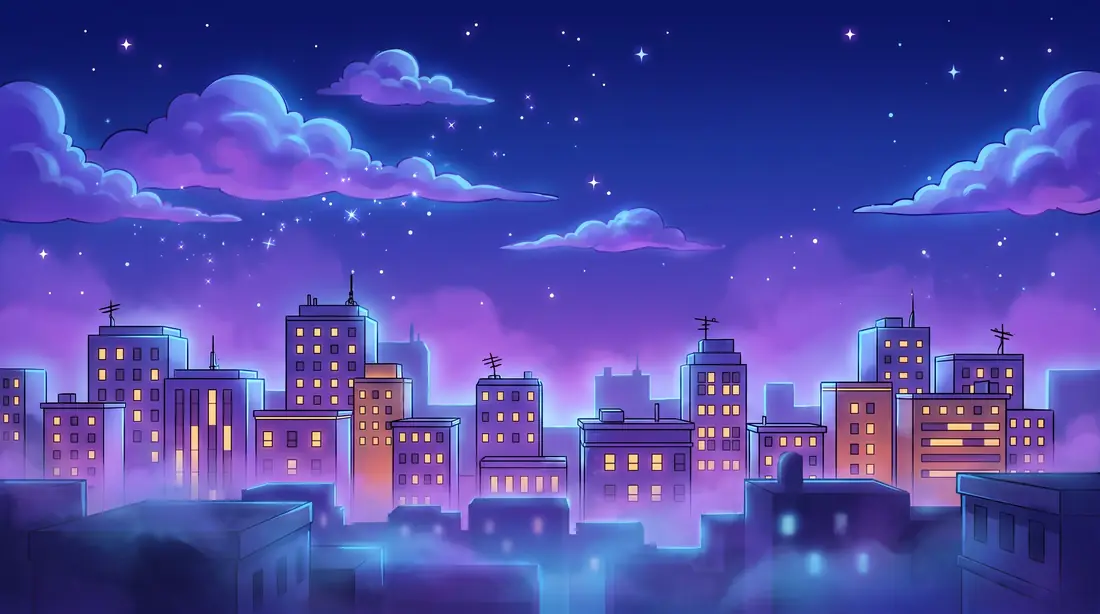
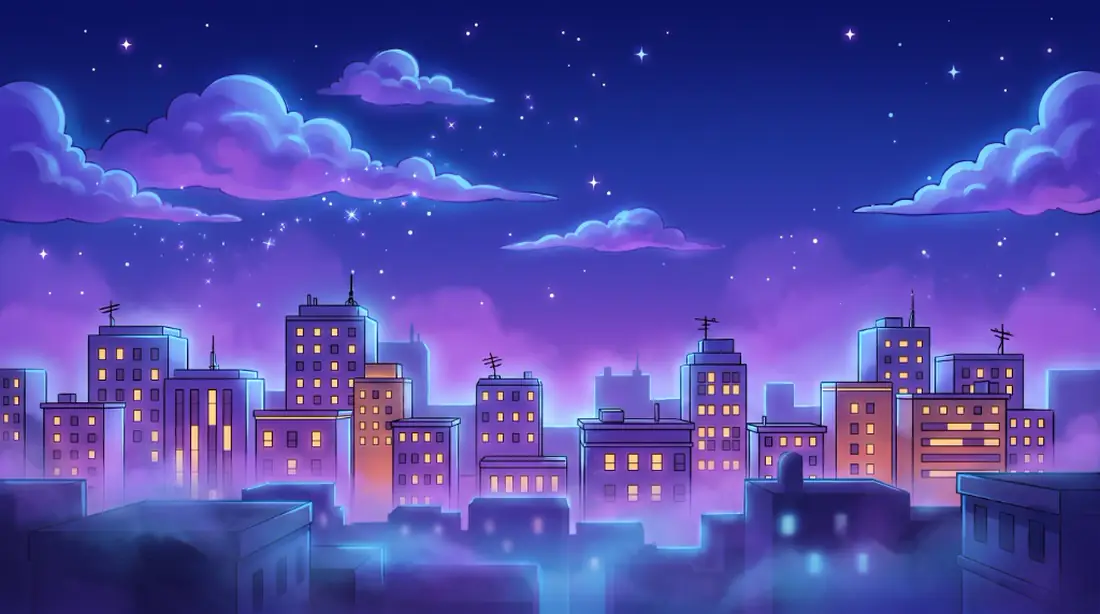
Fondos: ciudad según la hora (día, atardecer, noche) y escenario en partida
- FondoALV: ciudad que cambia sola con la hora local (cortes de México), luna y destellos de noche, sol de día.
- FondoEscenario: alberca (ALVerca), patio con fogata (FBI Fogata) y cancha (GPS Gran Parque Salvaje) en la partida, en la TV y en la sección Escenario del configurador; sin imagen, la ciudad.
- Imágenes nuevas en public/arte en dos tamaños; ?hora=HH para probar.

diff --git a/src/pantallas/alv.css b/src/pantallas/alv.css
@@ -655,3 +655,38 @@ button.a-logo:focus-visible { outline: 3px solid #ffd23f; outline-offset: 4px; b
 
 /* ---------- Lobby: posiciones del último juego en la TV ---------- */
 .D .a-tv-lobby > .pos { align-self: center; justify-self: center; align-content: center; width: min(60em, 100%); grid-template-columns: repeat(2, minmax(0, 1fr)); font-size: 1.1em; }
+
+/* ---------- Fondos pintados (2026-11-18): ciudad según la hora y escenario en partida (Fondos.tsx) ---------- */
+.D .a-fondo-alv { overflow: hidden; background: #241a6b; }
+.D .a-fondo-alv.m-dia { background: #8fd0f5; }
+.D .a-fondo-alv.m-atardecer { background: #6e4058; }
+.D .a-fa-capa { position: absolute; inset: 0; background: var(--arte-g) center bottom / cover no-repeat; }
+.D:not(.wide) .a-fondo-alv .a-fa-capa { background-image: var(--arte-c); background-position: 42% bottom; }
+.D .a-fa-capa.nueva { animation: aFaEntra 2.2s ease both; }
+@keyframes aFaEntra { from { opacity: 0; } }
+/* Velo para leer el texto encima (arriba y abajo más oscuro). */
+.D .a-fondo-alv::after { background-image: linear-gradient(180deg, rgba(20,14,70,.15), transparent 30%, transparent 62%, rgba(10,14,48,.55)); background-size: auto; }
+.D .a-fondo-alv.m-dia::after { background-image: linear-gradient(180deg, rgba(12,40,110,.32), rgba(12,40,110,.12) 40%, transparent 58%, rgba(12,22,64,.5)); }
+.D .a-fondo-alv.m-atardecer::after { background-image: linear-gradient(180deg, rgba(40,16,60,.3), rgba(40,16,60,.1) 40%, transparent 60%, rgba(30,12,40,.55)); }
+/* Con cielo claro, el texto que va directo sobre el fondo lleva sombra para leerse. */
+.D:has(> .a-fondo-alv.m-dia) .a-scroll, .D:has(> .a-fondo-alv.m-atardecer) .a-scroll, .D:has(> .a-fondo-esc) .a-scroll, .D.a-tv:has(> .a-fondo-esc) { text-shadow: 0 1px 2px rgba(10,16,50,.8), 0 0 10px rgba(10,16,50,.55); }
+.D .a-fondo-alv .a-fh-luna, .D .a-fondo-alv .a-fh-brillo { z-index: 1; }
+.D:not(.wide) .a-fondo-alv .a-fh-luna { right: 7%; top: 15%; width: 54px; }
+/* Día: sol suave arriba a la derecha con rayos que giran lento. */
+.D .a-fa-sol { position: absolute; z-index: 1; right: 8%; top: 5%; width: clamp(60px, 8vw, 140px); aspect-ratio: 1; border-radius: 50%;
+  background: radial-gradient(circle at 42% 40%, #fffef0, #fff3b0 55%, #ffd76a);
+  box-shadow: 0 0 30px 10px rgba(255,240,170,.6), 0 0 120px 50px rgba(255,236,170,.35); }
+.D .a-fa-sol::before { content: ""; position: absolute; inset: -110%; border-radius: 50%; pointer-events: none; opacity: .35;
+  background: repeating-conic-gradient(rgba(255,246,200,.9) 0 6deg, transparent 6deg 24deg);
+  -webkit-mask: radial-gradient(closest-side, #000 35%, transparent); mask: radial-gradient(closest-side, #000 35%, transparent); animation: aFaRayos 60s linear infinite; }
+.D:not(.wide) .a-fa-sol { top: 13%; right: 8%; width: 50px; }
+@keyframes aFaRayos { to { rotate: 360deg; } }
+/* Atardecer: el sol ya viene en la imagen; solo un resplandor cálido que respira sobre el horizonte. */
+.D .a-fa-calor { position: absolute; z-index: 1; left: 15%; right: 15%; top: 38%; height: 40%; pointer-events: none; border-radius: 50%;
+  background: radial-gradient(closest-side, rgba(255,190,100,.32), transparent); animation: aFaCalor 7s ease-in-out infinite alternate; }
+@keyframes aFaCalor { to { opacity: .55; scale: 1.08; } }
+/* Escenario en partida: la imagen centrada y un velo más fuerte para que se lean tarjetas y marcador. */
+.D .a-fondo-esc { background: #10183a; }
+.D .a-fondo-esc .a-fa-capa, .D:not(.wide) .a-fondo-esc .a-fa-capa { background-position: center 60%; }
+.D .a-fondo-esc::after { background-image: linear-gradient(180deg, rgba(8,10,40,.5), rgba(8,10,40,.18) 30%, rgba(8,10,40,.22) 65%, rgba(8,10,40,.65)); background-size: auto; }
+@media (prefers-reduced-motion: reduce) { .D .a-fa-sol::before, .D .a-fa-calor, .D .a-fa-capa.nueva { animation: none !important; } }

diff --git a/src/pantallas/ConfigurarPartida.tsx b/src/pantallas/ConfigurarPartida.tsx
@@ -23,6 +23,7 @@ import { useSala } from "../roles/sala";
 import { FILAS, NIVELES, Reglas, candado, colorDe, duracion, gente } from "./Catalogo";
 import { CartaEscenario, CartaJuego, CartaTipo, srcArte } from "./TarjetasConfig";
 import { Marco, NombreJugador, Retrato, Vacio, aviso, confirmar } from "./comun";
+import { FondoEscenario } from "./Fondos";
 import "./configurar.css";
 
 export interface MiembroConfig { id: string; nombre: string; figura?: FiguraV2 | null }
@@ -94,10 +95,12 @@ function ArteJuego({ id, className = "" }: { id: string; className?: string }) {
     : <span className={"cfg-sinarte " + className} style={{ "--tc": colorDe(id) } as CSSProperties}><span aria-hidden="true">{EMOJI_JUEGO[id] ?? "🎲"}</span></span>;
 }
 
-export function ConfigurarPartida({ miembros, alIniciar, alCancelar, iniciando, inicial, alEntregarCopas }: {
+export function ConfigurarPartida({ miembros, alIniciar, alCancelar, iniciando, inicial, alEntregarCopas, alFondo }: {
   miembros: MiembroConfig[];
   /** «Terminar la noche»: entrega las copas de todos los juegos jugados (solo el anfitrión). */
   alEntregarCopas?: () => void;
+  /** Fondo de la página: en la sección «Escenario» el del escenario elegido (null = Ciudad ALV); fuera de ella, undefined. */
+  alFondo?: (escenario: EscenarioId | null | undefined) => void;
   alIniciar: (c: PartidaConfigurada) => void;
   alCancelar?: () => void;
   iniciando?: boolean;
@@ -122,6 +125,8 @@ export function ConfigurarPartida({ miembros, alIniciar, alCancelar, iniciando, 
   const [tema, setTema] = useState<string | null>(inicial?.opciones.impostor?.tema ?? null);
   const [escenario, setEscenario] = useState<EscenarioId | undefined>(inicial?.opciones.escenario);
   const [filtro, setFiltro] = useState("todos");
+  // En la sección «Escenario» la página toma el fondo del escenario elegido.
+  useEffect(() => { alFondo?.(sec === "escenario" ? escenario ?? null : undefined); }, [sec, escenario, alFondo]);
   // Temporizador por turno (herramienta opcional, 6A.11 C6). null: sin tiempo.
   const [temporizador, setTemporizador] = useState<number | null>(inicial?.opciones.temporizador ?? null);
   const conTemporizador = JUEGOS_CON_TEMPORIZADOR.includes(juego);
@@ -401,6 +406,7 @@ export function PaginaConfigurar({ codigo }: { codigo: string }) {
   const ses = useSesion();
   const s = useSala(codigo, ses.uid);
   const [iniciando, setIniciando] = useState(false);
+  const [fondoEsc, setFondoEsc] = useState<EscenarioId | null | undefined>(undefined);
   const soyAnfitrion = !!s.sala && s.sala.anfitrionId === ses.uid;
   const enCurso = !!s.partida && !s.partida.terminada;
   useEffect(() => { if (enCurso && !iniciando) ir("sala", codigo); }, [enCurso, iniciando, codigo]);
@@ -426,9 +432,9 @@ export function PaginaConfigurar({ codigo }: { codigo: string }) {
     ir("sala", codigo);
   };
   return (
-    <Marco clase="cfg-pagina">
+    <Marco clase="cfg-pagina" fondo={fondoEsc !== undefined ? <FondoEscenario escenario={fondoEsc} /> : undefined}>
       {soyAnfitrion
-        ? <ConfigurarPartida miembros={s.miembros} iniciando={iniciando} alIniciar={c => void iniciar(c)} alCancelar={() => ir("sala", codigo)} alEntregarCopas={() => void copas()} />
+        ? <ConfigurarPartida miembros={s.miembros} iniciando={iniciando} alIniciar={c => void iniciar(c)} alCancelar={() => ir("sala", codigo)} alEntregarCopas={() => void copas()} alFondo={setFondoEsc} />
         : <Vacio titulo="El anfitrión está configurando" texto="En cuanto toque «Iniciar», empieza la partida."><Boton color="amarillo" texto="Volver a la sala" icono="back" onClick={() => ir("sala", codigo)} /></Vacio>}
     </Marco>
   );

diff --git a/src/app/horaDelDia.ts b/src/app/horaDelDia.ts
@@ -1,0 +1,60 @@
+// Momento del día para el fondo de ciudad (día, atardecer o noche), con la hora local del aparato.
+// Cortes con horas promedio de México (PROPUESTA, 18 nov): amanecer 6:00–7:00 usa la imagen del atardecer,
+// día 7:00–18:00, atardecer 18:00–19:30, noche 19:30–6:00.
+import { useEffect, useState } from "react";
+
+export type MomentoDia = "dia" | "atardecer" | "noche";
+
+/** Cortes en minutos desde la medianoche: [desde, momento]. Ordenados. */
+export const CORTES: readonly (readonly [number, MomentoDia])[] = [
+  [0, "noche"], [6 * 60, "atardecer"], [7 * 60, "dia"], [18 * 60, "atardecer"], [19 * 60 + 30, "noche"],
+];
+
+export function momentoDeMinutos(min: number): MomentoDia {
+  const m = ((Math.floor(min) % 1440) + 1440) % 1440;
+  let r: MomentoDia = "noche";
+  for (const [desde, cual] of CORTES) if (m >= desde) r = cual;
+  return r;
+}
+
+/** Minutos que faltan para el siguiente corte (siempre ≥ 1). */
+export function minutosAlSiguienteCorte(min: number): number {
+  const m = ((min % 1440) + 1440) % 1440;
+  const sig = CORTES.map(([d]) => d).find(d => d > m) ?? 1440;
+  return Math.max(1, sig - m);
+}
+
+/** Hora de prueba en la URL: `?hora=19`, `?hora=19.5` o `?hora=18:45`. Solo para revisar los fondos. */
+export function horaDePrueba(busqueda: string): number | null {
+  const h = new URLSearchParams(busqueda).get("hora");
+  if (!h) return null;
+  const m = /^(\d{1,2})(?::(\d{2})|\.(\d+))?$/.exec(h.trim());
+  if (!m) return null;
+  const horas = Number(m[1]), min = m[2] ? Number(m[2]) : m[3] ? Number("0." + m[3]) * 60 : 0;
+  if (horas > 23 || min > 59) return null;
+  return horas * 60 + min;
+}
+
+const ahoraMin = () => { const d = new Date(); return d.getHours() * 60 + d.getMinutes() + d.getSeconds() / 60; };
+
+/** Momento del día que cambia solo al pasar el corte, sin recargar. */
+export function useMomentoDia(): MomentoDia {
+  const prueba = typeof location !== "undefined" ? horaDePrueba(location.search) : null;
+  const [m, setM] = useState<MomentoDia>(() => momentoDeMinutos(prueba ?? ahoraMin()));
+  useEffect(() => {
+    if (prueba !== null) { setM(momentoDeMinutos(prueba)); return; }
+    let t = 0;
+    const revisar = () => {
+      clearTimeout(t);
+      const min = ahoraMin();
+      setM(momentoDeMinutos(min));
+      // Un segundo después del corte; los relojes de pestañas ocultas se atrasan, por eso también al volver a la pestaña.
+      t = window.setTimeout(revisar, minutosAlSiguienteCorte(min) * 60_000 + 1000);
+    };
+    revisar();
+    const alVolver = () => { if (document.visibilityState === "visible") revisar(); };
+    document.addEventListener("visibilitychange", alVolver);
+    return () => { clearTimeout(t); document.removeEventListener("visibilitychange", alVolver); };
+  }, [prueba]);
+  return m;
+}

diff --git a/src/roles/pantalla/Pantalla.tsx b/src/roles/pantalla/Pantalla.tsx
@@ -1,7 +1,8 @@
 // La Pantalla (#/tv/código): la laptop o TV que todos ven. No juega: corre el motor y dibuja lo público.
 // Sin QR (Elías, 18 nov): quien abre ALV entra al lobby único con «¡Jugar!». Tiene controles de respaldo para quien tiene el control.
 import { useEffect, useState } from "react";
-import { Boton, Cartel, Etiqueta, FondoCiudad, Onomatopeya, RaizDS, Reloj } from "../../ds";
+import { Boton, Cartel, Etiqueta, Onomatopeya, RaizDS, Reloj } from "../../ds";
+import { FondoALV, FondoEscenario } from "../../pantallas/Fondos";
 import { ir } from "../../app/rutas";
 import { useSesion } from "../../app/sesion";
 import { enlace } from "../../servicios/enlace";
@@ -10,7 +11,7 @@ import { esPublico, marcador, nombreDe, nombreJuego } from "../../juegos/general
 import { Conexion, useDespierta, usePantalla, useQuedan } from "../../pantallas/Sala";
 import { Posiciones, esFinalDeJuego } from "../../juegos/general/Copas";
 import { NombreJugador, Retrato, confirmar } from "../../pantallas/comun";
-import { ContadorListos, Cupo, FondoLobby, Pedestales, TodosListos } from "../../pantallas/SalaEspera";
+import { ContadorListos, Cupo, Pedestales, TodosListos } from "../../pantallas/SalaEspera";
 import { useSala } from "../sala";
 import { control, useMotor } from "./motor";
 
@@ -36,7 +37,7 @@ export function PantallaTv({ codigo }: { codigo: string }) {
     // eslint-disable-next-line react-hooks/exhaustive-deps
   }, [nRuleta]);
 
-  const marco = (hijos: React.ReactNode, fondo: React.ReactNode = <FondoCiudad />) => <RaizDS ancho className="alv a-tv">{fondo}{hijos}</RaizDS>;
+  const marco = (hijos: React.ReactNode, fondo: React.ReactNode = <FondoALV />) => <RaizDS ancho className="alv a-tv">{fondo}{hijos}</RaizDS>;
   if (s.error || s.cerrada) return marco(<div className="a-tv-msj"><span className="dsp ol a-tv-t1">{s.cerrada ? "La sala se cerró" : "No se pudo abrir la pantalla"}</span><p className="a-tv-sub">{s.error}</p><Boton color="amarillo" texto="Ir al inicio" icono="back" onClick={() => ir("inicio")} /></div>);
   if (!s.sala) return marco(<div className="a-tv-msj"><p className="a-tv-sub a-pulso" role="status">Abriendo la sala {codigo}…</p></div>);
   const pid = s.partida?.id ?? "";
@@ -68,7 +69,7 @@ export function PantallaTv({ codigo }: { codigo: string }) {
             : <button type="button" onClick={() => void control(pid, "siguiente")}>{ultima ? "Resultados" : "Siguiente"}</button>}
         </div>
       )}
-    </>);
+    </>, <FondoEscenario escenario={v.escenario} />);
   }
 
   return marco(<>
@@ -83,5 +84,5 @@ export function PantallaTv({ codigo }: { codigo: string }) {
       )}
       <TodosListos miembros={s.miembros} />
     </main>
-  </>, <FondoLobby />);
+  </>);
 }

diff --git a/src/pantallas/Fondos.tsx b/src/pantallas/Fondos.tsx
@@ -1,0 +1,40 @@
+// Fondos pintados de ALV (18 nov): la ciudad cambia con la hora (día, atardecer, noche) y en partida va el escenario.
+// Las imágenes viven en public/arte con dos tamaños: -1920 (computadora y TV) y -1100 (celular).
+import { useEffect, useState, type CSSProperties } from "react";
+import { FONDO_ESCENARIO } from "../content/arteJuegos";
+import { useMomentoDia, type MomentoDia } from "../app/horaDelDia";
+
+// Url absoluta (igual que urlArte en comun.tsx; aquí aparte para no importar comun y evitar un ciclo).
+const url = (nombre: string) => `url("${new URL(`${import.meta.env.BASE_URL}arte/${nombre}`, document.baseURI).href}")`;
+const arte = (base: string) => ({ "--arte-g": url(`${base}-1920.webp`), "--arte-c": url(`${base}-1100.webp`) }) as CSSProperties;
+
+const BRILLOS = [[12, 18, 0], [34, 9, 1.2], [58, 22, 2.1], [71, 7, .6], [88, 30, 1.7], [22, 36, 2.6], [47, 4, 3.1]];
+
+/** Ciudad según la hora local. Al pasar un corte la imagen nueva aparece encima con un fundido. */
+export function FondoALV() {
+  const m = useMomentoDia();
+  const [capas, setCapas] = useState<MomentoDia[]>([m]);
+  useEffect(() => {
+    setCapas(c => { const ult = c[c.length - 1]; return ult === m || !ult ? [m] : [ult, m]; });
+    const t = setTimeout(() => setCapas([m]), 2500);
+    return () => clearTimeout(t);
+  }, [m]);
+  return (
+    <div className={`d-bg a-fondo-alv m-${m}`} aria-hidden="true" data-momento={m}>
+      {capas.map(c => <div key={c} className={"a-fa-capa" + (capas.length > 1 && c === m ? " nueva" : "")} style={arte(`ciudad-${c}`)} />)}
+      {m === "noche" && <>
+        <div className="a-fh-luna" />
+        {BRILLOS.map(([x, y, d], i) => <i key={i} className="a-fh-brillo" style={{ left: `${x}%`, top: `${y}%`, animationDelay: `${d}s` }} />)}
+      </>}
+      {m === "dia" && <div className="a-fa-sol" />}
+      {m === "atardecer" && <div className="a-fa-calor" />}
+    </div>
+  );
+}
+
+/** Fondo de la partida: la imagen del escenario elegido, o la ciudad según la hora si ese escenario no tiene imagen. */
+export function FondoEscenario({ escenario }: { escenario?: string | null }) {
+  const base = escenario ? FONDO_ESCENARIO[escenario] : undefined;
+  if (!base) return <FondoALV />;
+  return <div className={`d-bg a-fondo-alv a-fondo-esc esc-${escenario}`} aria-hidden="true" data-escenario={escenario}><div className="a-fa-capa" style={arte(base)} /></div>;
+}

diff --git a/src/pantallas/Sala.tsx b/src/pantallas/Sala.tsx
@@ -15,7 +15,8 @@ import { PodioJuego, esFinalDeJuego } from "../juegos/general/Copas";
 import { useSala } from "../roles/sala";
 import { Capsulas } from "./Personalizar";
 import { Cabecera, Marco, NombreJugador, Retrato, Vacio, aviso, confirmar, useAncho } from "./comun";
-import { ContadorListos, Cupo, FilaSala, FondoLobby, Gestos, MiPedestal, Pedestales, TodosListos } from "./SalaEspera";
+import { ContadorListos, Cupo, FilaSala, Gestos, MiPedestal, Pedestales, TodosListos } from "./SalaEspera";
+import { FondoEscenario } from "./Fondos";
 
 /** Mantiene la pantalla encendida mientras `activo` (la Pantalla y el celular que hace de Pantalla). */
 export function useDespierta(activo: boolean) {
@@ -130,7 +131,7 @@ export function Sala({ codigo }: { codigo: string }) {
     // Ceremonia de copas de la noche: sin ronda, sin barra del anfitrión ni marcador; al final se cierra la sala.
     const copas = v.juegoId === "copas";
     return (
-      <Marco clase="a-partida" fijo={soyAnfitrion && !copas ? (
+      <Marco clase="a-partida" fondo={<FondoEscenario escenario={v.escenario} />} fijo={soyAnfitrion && !copas ? (
         <div className={"a-barra" + (sinPantalla ? " a-sin-pantalla" : "")} {...inerte(sinPantalla)}>
           <BarraAnfitrion pausada={v.pausada}
             momento={v.fase === "revelada" && !sinPantalla ? { texto: ultima ? "Ver resultados" : "Siguiente ronda", icono: "skip", onClick: () => void control(pid, "siguiente") } : undefined}
@@ -191,7 +192,7 @@ export function Sala({ codigo }: { codigo: string }) {
     </div>
   );
   return (
-    <Marco clase="a-sala" fondo={<FondoLobby />}>
+    <Marco clase="a-sala">
       <div className="a-ancho a-pila">
         <Cabecera titulo="Lobby" icono="users" alVolver={() => void salir()} derecha={<><ContadorListos miembros={s.miembros} /><Conexion red={s.red} /></>} />
         <TodosListos miembros={s.miembros} texto={soyAnfitrion ? "Toca «Armar partida»" : "El anfitrión prepara la partida"} />

diff --git a/src/pantallas/Hub.tsx b/src/pantallas/Hub.tsx
@@ -1,5 +1,5 @@
 // Hub: todo sale de aquí. Arriba quién eres; al centro tu figura; el menú con Jugar como acción principal.
-import { useEffect, useState, type CSSProperties } from "react";
+import { useEffect, useState } from "react";
 import { Boton, Panel, TarjetaJugador } from "../ds";
 import { costoNivel, tituloPorNivel, xpParaNivel } from "../engine/economia";
 import { apodoDe, figuraActiva, useCapsulas } from "../app/figura3d";
@@ -7,7 +7,8 @@ import { ir } from "../app/rutas";
 import { useSesion } from "../app/sesion";
 import { useLobby, usePuedeAbrir } from "../app/lobby";
 import { enlace, type SalaV } from "../servicios/enlace";
-import { Campo, Cabecera, Elenco, Marco, Retrato, aviso, urlArte, useAncho } from "./comun";
+import { Campo, Cabecera, Elenco, Marco, Retrato, aviso, useAncho } from "./comun";
+import { FondoALV } from "./Fondos";
 import { LogoALV } from "./Logo";
 
 export function Hub() {
@@ -46,18 +47,8 @@ export function Hub() {
   );
 }
 
-/** Fondo ilustrado del HUB: la ciudad pintada (imagen) y encima, en CSS, la luna y los destellos.
- *  La luna y los destellos van aparte para que no se recorten en celular (la imagen se recorta por los lados). */
-const ARTE = { "--arte-g": urlArte("ciudad-noche-1920.webp"), "--arte-c": urlArte("ciudad-noche-1100.webp") } as CSSProperties;
-export function FondoHub() {
-  return (
-    <div className="d-bg a-fondo-hub" aria-hidden="true" style={ARTE}>
-      <div className="a-fh-luna" />
-      {[[12, 18, 0], [34, 9, 1.2], [58, 22, 2.1], [71, 7, .6], [88, 30, 1.7], [22, 36, 2.6], [47, 4, 3.1]].map(([x, y, d], i) =>
-        <i key={i} className="a-fh-brillo" style={{ left: `${x}%`, top: `${y}%`, animationDelay: `${d}s` }} />)}
-    </div>
-  );
-}
+/** Fondo del HUB (y del taller): la ciudad según la hora. */
+export const FondoHub = FondoALV;
 
 /** Jugar: el lobby único. Entrar si está abierto; el anfitrión lo abre. El código queda como respaldo. */
 export function Jugar() {

diff --git a/src/app/horaDelDia.test.ts b/src/app/horaDelDia.test.ts
@@ -1,0 +1,30 @@
+import { describe, expect, it } from "vitest";
+import { horaDePrueba, minutosAlSiguienteCorte, momentoDeMinutos } from "./horaDelDia";
+
+const h = (hh: number, mm = 0) => hh * 60 + mm;
+
+describe("momento del día", () => {
+  it("cortes de México", () => {
+    expect(momentoDeMinutos(h(3))).toBe("noche");
+    expect(momentoDeMinutos(h(6))).toBe("atardecer");
+    expect(momentoDeMinutos(h(6, 59))).toBe("atardecer");
+    expect(momentoDeMinutos(h(7))).toBe("dia");
+    expect(momentoDeMinutos(h(17, 59))).toBe("dia");
+    expect(momentoDeMinutos(h(18))).toBe("atardecer");
+    expect(momentoDeMinutos(h(19, 29))).toBe("atardecer");
+    expect(momentoDeMinutos(h(19, 30))).toBe("noche");
+    expect(momentoDeMinutos(h(23, 59))).toBe("noche");
+  });
+  it("minutos al siguiente corte", () => {
+    expect(minutosAlSiguienteCorte(h(17, 50))).toBe(10);
+    expect(minutosAlSiguienteCorte(h(22))).toBe(120);
+    expect(minutosAlSiguienteCorte(h(19, 29.5))).toBe(1);
+  });
+  it("hora de prueba en la URL", () => {
+    expect(horaDePrueba("?hora=19")).toBe(h(19));
+    expect(horaDePrueba("?yo=Ana&hora=18:45")).toBe(h(18, 45));
+    expect(horaDePrueba("?hora=19.5")).toBe(h(19, 30));
+    expect(horaDePrueba("?hora=25")).toBeNull();
+    expect(horaDePrueba("?yo=Ana")).toBeNull();
+  });
+});

diff --git a/src/pantallas/comun.tsx b/src/pantallas/comun.tsx
@@ -1,7 +1,8 @@
 // Piezas comunes de las pantallas de ALV 2.0: marco con ciudad, cabecera, avisos, confirmación y figuras.
 import { useEffect, useState, useSyncExternalStore, type ReactNode } from "react";
 import type { FiguraV2 } from "../content/personaje";
-import { FondoCiudad, Icono, RaizDS, type IconoId } from "../ds";
+import { Icono, RaizDS, type IconoId } from "../ds";
+import { FondoALV } from "./Fondos";
 import { Escena3D, FotoFigura, apodoDe, semillaDe, type EnEscena, type Momento } from "../app/figura3d";
 import { atras } from "../app/rutas";
 
@@ -18,12 +19,12 @@ export function useAncho(min = 900): boolean {
   return a;
 }
 
-/** Marco de toda pantalla: tokens del Design System, ciudad de noche y zona que se desliza. */
+/** Marco de toda pantalla: tokens del Design System, ciudad según la hora (o el fondo que se pase) y zona que se desliza. */
 export function Marco({ children, clase = "", fijo, fondo }: { children: ReactNode; clase?: string; fijo?: ReactNode; fondo?: ReactNode }) {
   const ancho = useAncho();
   return (
     <RaizDS ancho={ancho} className={`alv ${clase}`.trim()}>
-      {fondo ?? <FondoCiudad />}
+      {fondo ?? <FondoALV />}
       <div className="a-scroll">{children}</div>
       {fijo}
     </RaizDS>

diff --git a/src/pantallas/personalizador.css b/src/pantallas/personalizador.css
@@ -249,11 +249,7 @@
 .p-puntos i.on { background: var(--p-amarillo); transform: scale(1.25); }
 .D.wide .p-puntos { display: none; }
 
-/* Fondo de noche del HUB también en el personalizador (sus reglas en alv.css solo aplican dentro de .a-hub). */
-.D.p-taller .a-fondo-hub { background: #241a6b var(--arte-g) center bottom / cover no-repeat; }
-.D.p-taller:not(.wide) .a-fondo-hub { background-image: var(--arte-c); background-position: 42% bottom; }
-.D.p-taller .a-fondo-hub::after { background-image: linear-gradient(180deg, rgba(20, 14, 70, .15), transparent 30%, transparent 62%, rgba(10, 14, 48, .55)); background-size: auto; }
-.D.p-taller:not(.wide) .a-fh-luna { right: 7%; top: 15%; width: 54px; }
+/* El fondo del taller es la ciudad según la hora (FondoALV, estilos «Fondos pintados» en alv.css). */
 
 /* Celular girado (diseño de computadora con poca altura): las cartas y el libro caben sin desplazar. */
 .D.wide .p-carta { width: min(100%, calc((100dvh - 210px) * 5 / 7)); min-width: 130px; }

diff --git a/src/content/arteJuegos.ts b/src/content/arteJuegos.ts
@@ -19,9 +19,19 @@ export const ARTE_TIPOS: Record<"individual" | "parejas" | "equipos" | "sexos", 
   individual: "tipos/individual.webp", parejas: "tipos/parejas.webp", equipos: "tipos/equipos.webp", sexos: "tipos/sexos.webp",
 };
 
-/** Escenario → archivo dentro de `public/arte/`. */
+/** Escenario → archivo dentro de `public/arte/` (tarjeta del configurador). */
 export const ARTE_ESCENARIOS: Record<string, string> = {
   ciudad: "ciudad-noche-1100.webp",
+  alverca: "escenario-alberca-1100.webp",
+  fogata: "escenario-patio-fogata-1100.webp",
+  parque: "escenario-cancha-1100.webp",
+};
+
+/** Escenario → nombre base del fondo de pantalla (`-1920.webp` y `-1100.webp`). Sin imagen = ciudad según la hora. */
+export const FONDO_ESCENARIO: Record<string, string> = {
+  alverca: "escenario-alberca",
+  fogata: "escenario-patio-fogata",
+  parque: "escenario-cancha",
 };
 
 export const EMOJI_JUEGO: Record<string, string> = {
